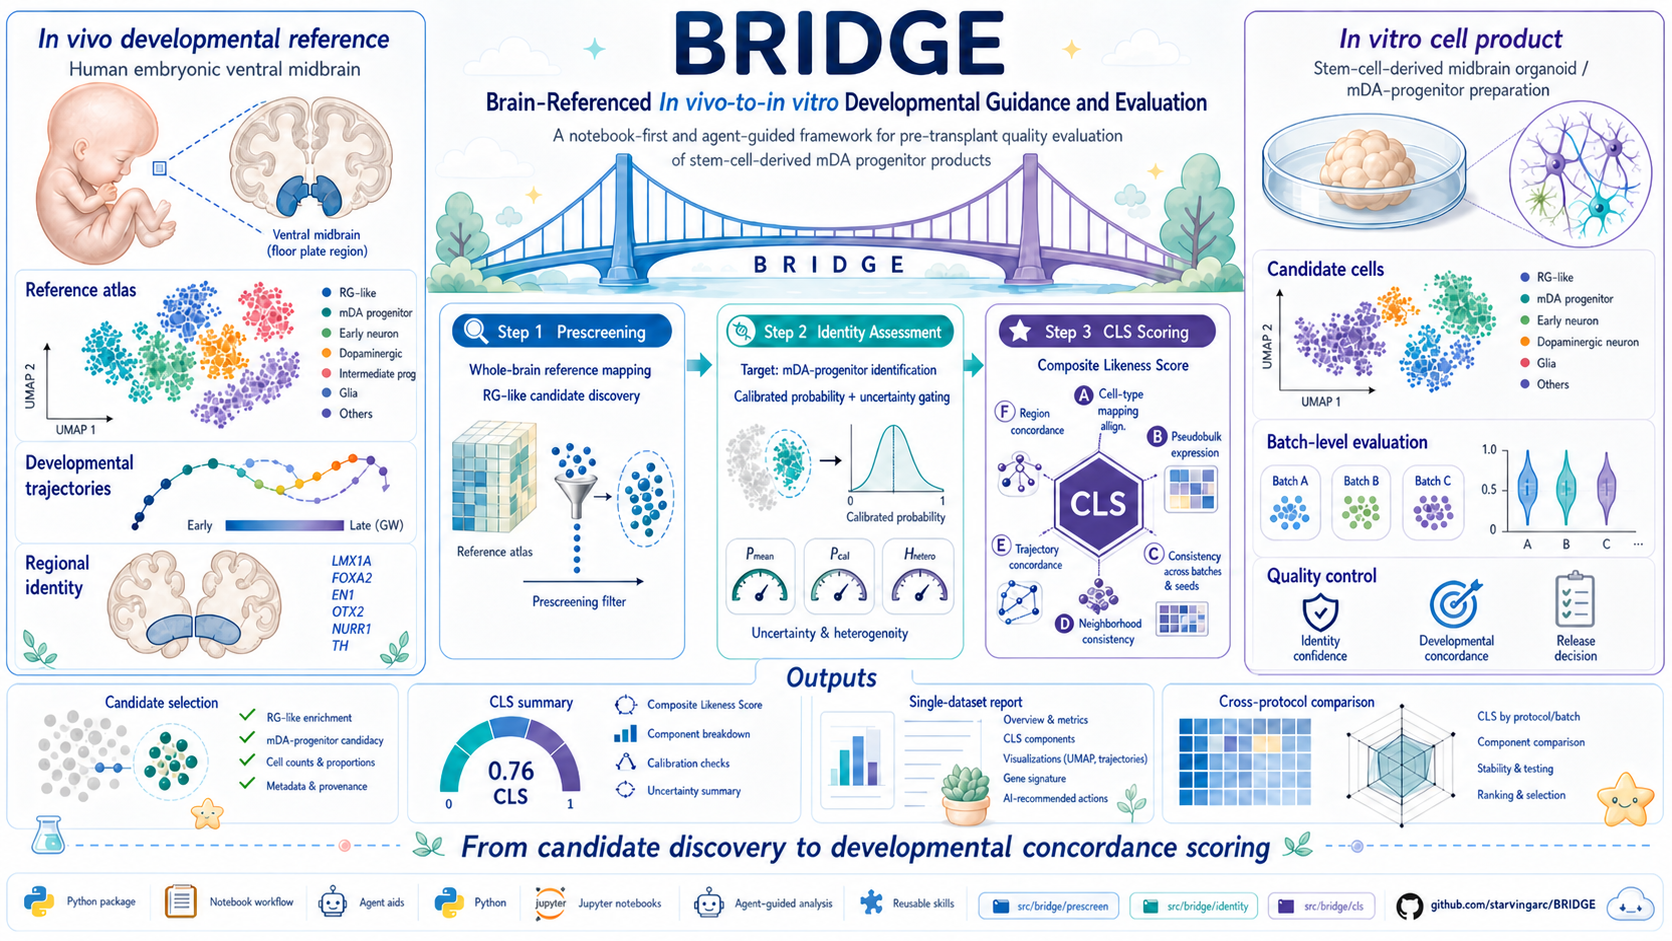
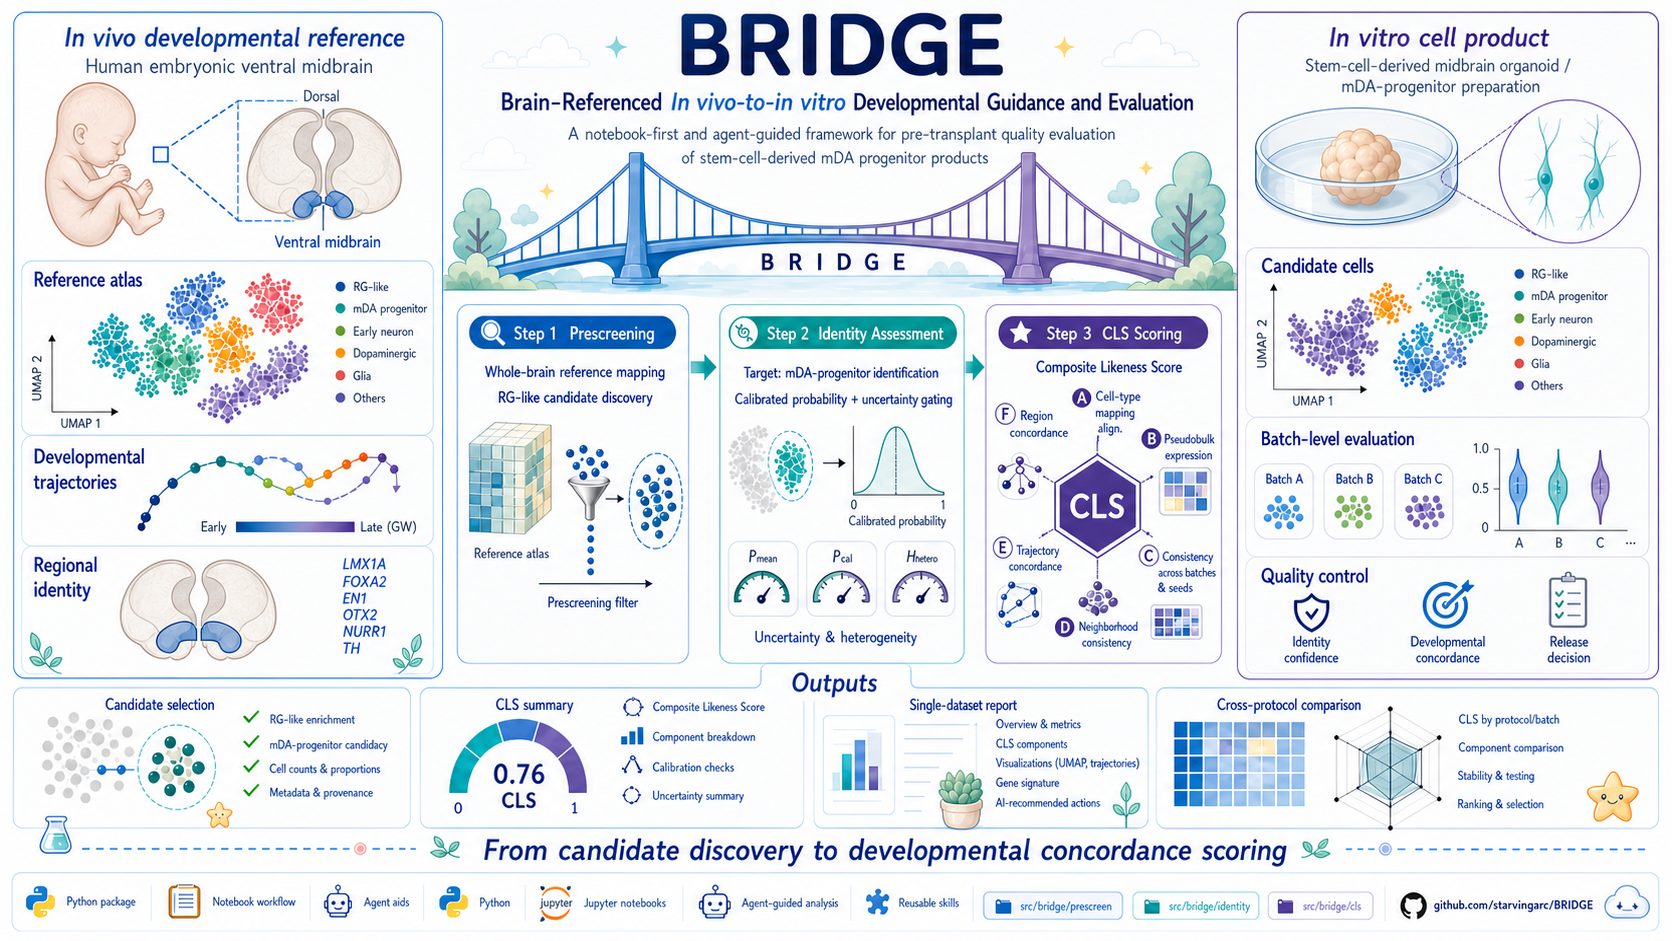
Update BRIDGE overview image

Changed region(s): [[0.0, 0.0, 1.0, 0.9862], [0.622, 0.0308, 0.6531, 0.0616], [0.3421, 0.0308, 0.3732, 0.0616]]

diff --git a/README.md b/README.md
@@ -1,5 +1,5 @@
 <p align="center">
-  <img src="docs/assets/bridge-overview.png" alt="BRIDGE workflow overview" width="100%">
+  <img src="docs/assets/bridge-overview.png?raw=true&v=20260506" alt="BRIDGE workflow overview" width="100%">
 </p>
 
 <p align="center">
